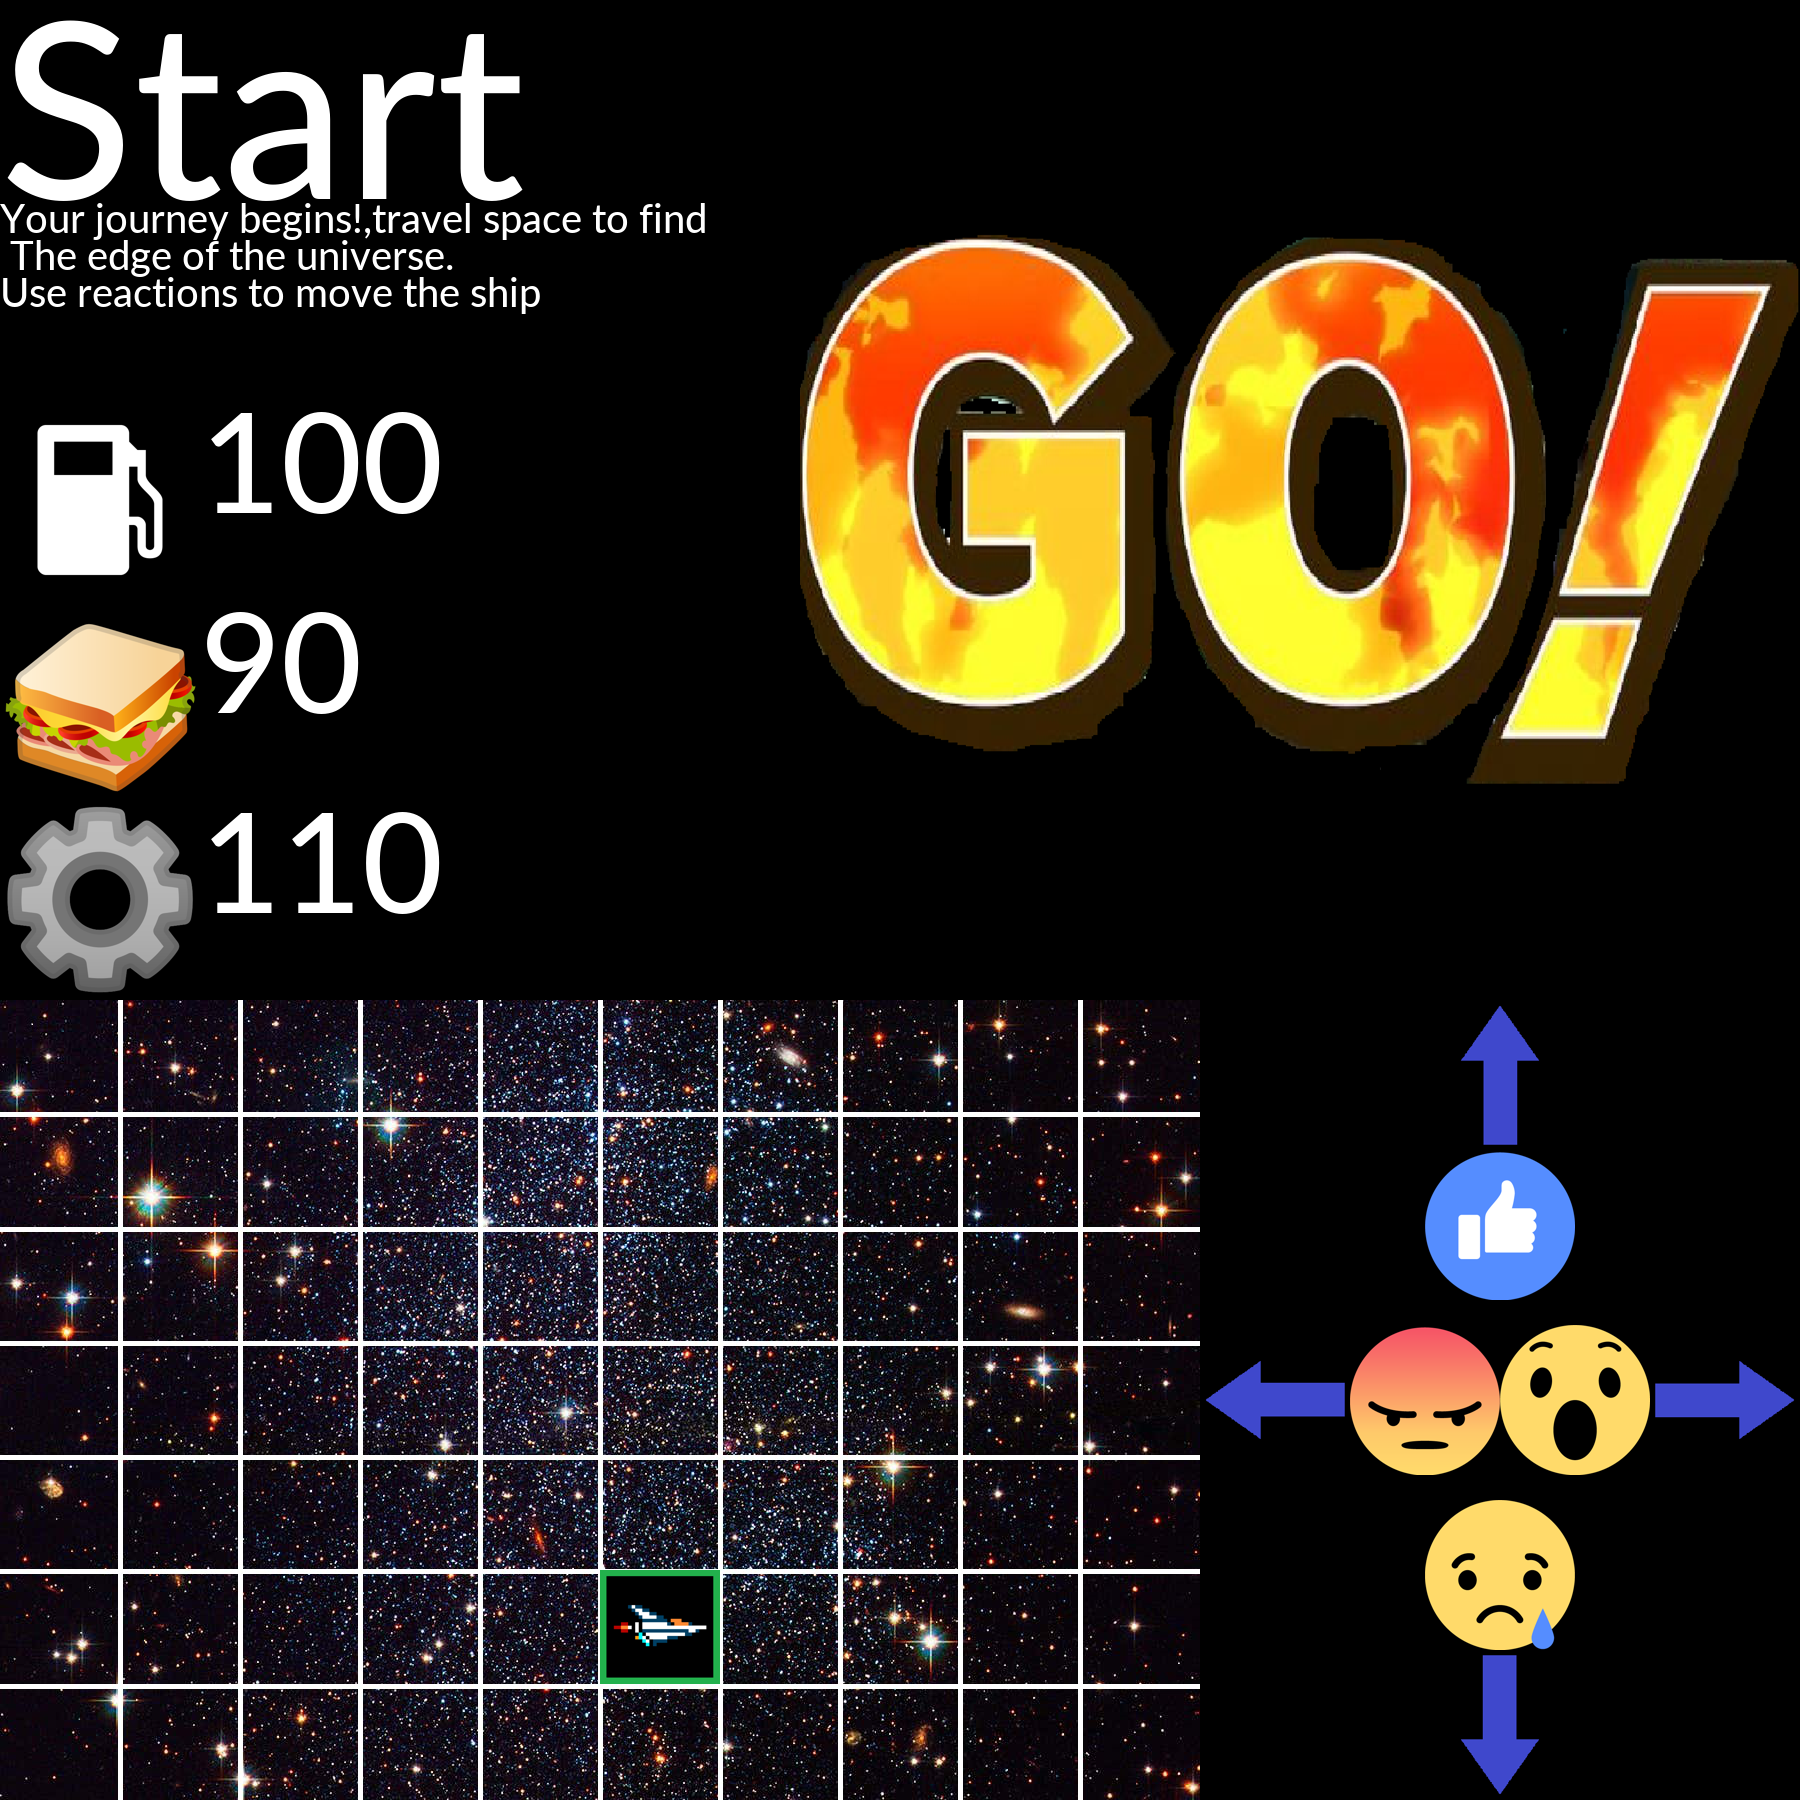
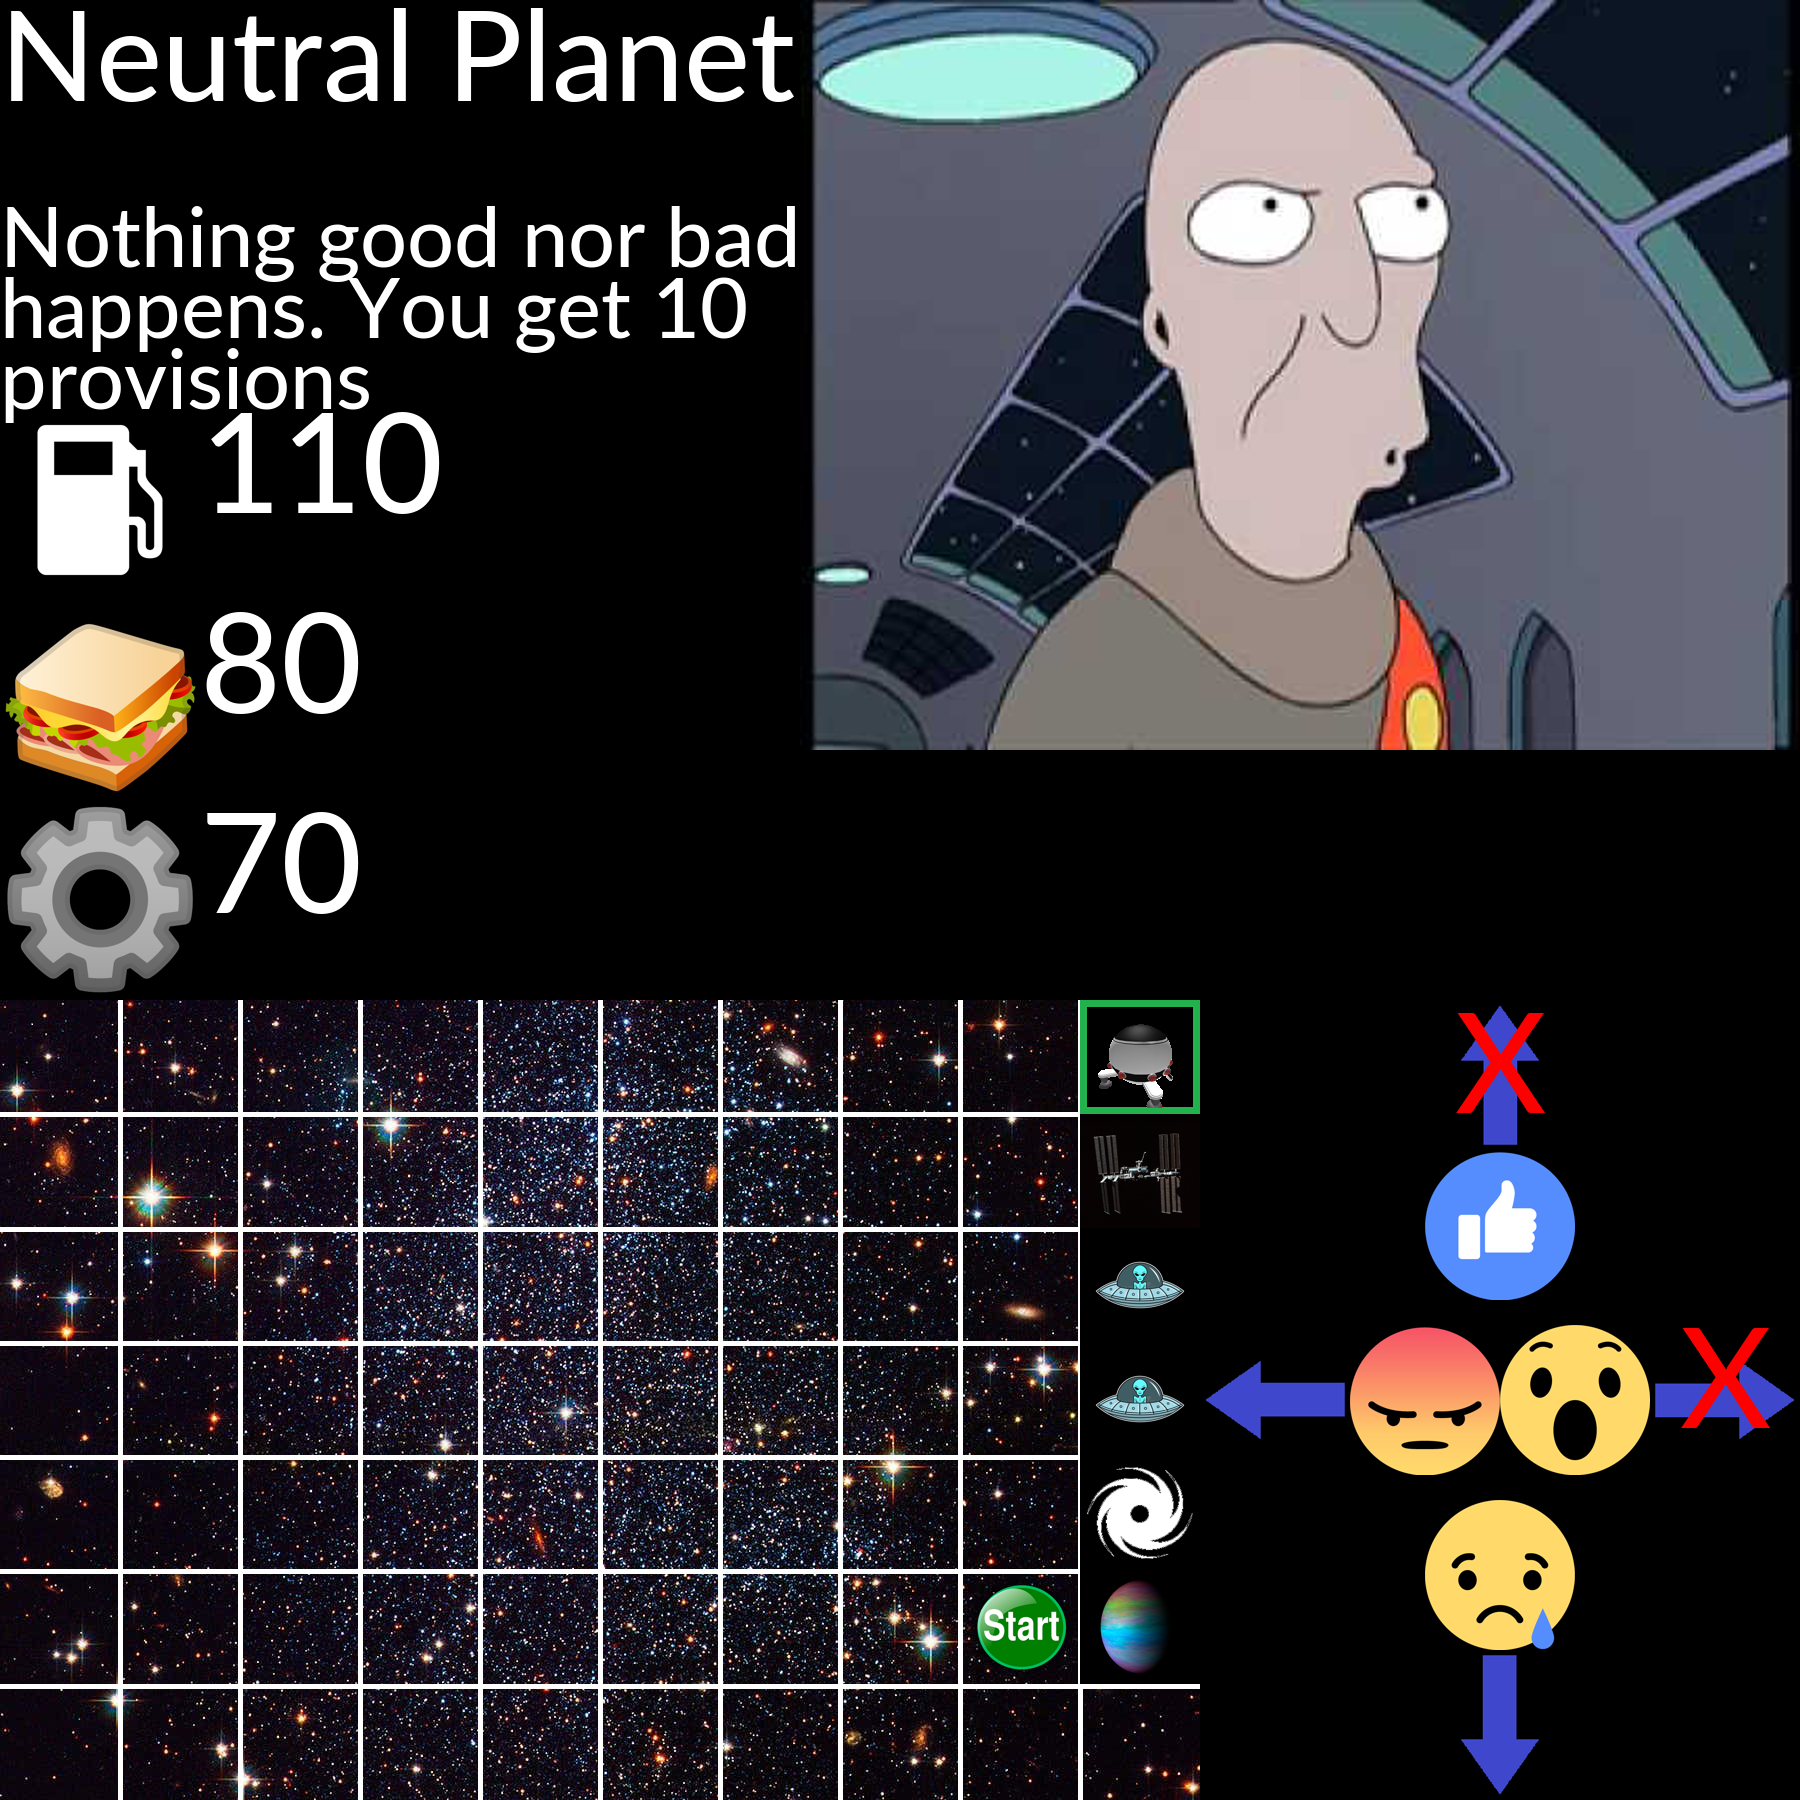
reworked runSpace for voting

diff --git a/Space.py b/Space.py
@@ -2,7 +2,7 @@ import numpy as np
 from PIL import Image
 from PIL import ImageFont
 from PIL import ImageDraw
-import facebook
+#import facebook
 from pathlib import Path
 import os
 import urllib.request
@@ -465,29 +465,33 @@ def make_vote_image():
 	draw.line([(0,500),(1000,500)],"white",10)
 	img.save("vote_image.png")
 	return "vote_image.png", ships
-
-def main(isFirst=False,direction="",vote=True):
+#
+#TURN
+#
+#[0:vote ship,1:first,2:normal turn]
+def main(turn="0",direction=""):
 
 	if direction:
 		gr = 0
 		p_id = 0
 
-	if isFirst:
-		if isFirst!=2 and vote:
-			gr, p_id, ship_list = vote_ship(direction)
-			np.save('data',[gr,p_id,ship_list])
-			return 2
+	if turn=="0":
+		gr, p_id, ship_list = vote_ship(direction)
+		np.save('data',[gr,p_id,ship_list])
+		return "1"
+
+	if turn=="1":
 		#generar el tablero
 		board  =Board()
 		initial_message = "Welcome traveler, move your ship across space to reach {} or perish in your quest to find it".format(board.goal)
-		if vote:
+		try:
 			data = np.load('data.npy',allow_pickle=True)
 			gr = data[0]
 			p_id = data[1]
 			ship_list = data[2]
 			ship = choose_ship(gr,p_id,ship_list,direction)
 			spaceship = Spaceship(ship)
-		else:
+		except:
 			spaceship = Spaceship()#get_random_ship())
 		postImage = gen_initial_image(spaceship,board)
 		if direction:
@@ -497,7 +501,7 @@ def main(isFirst=False,direction="",vote=True):
 			gr, p_id = upload(initial_message,getAccessToken(),postImage)
 		was_portal = False
 		np.save('data',[spaceship,gr,p_id,board,was_portal])
-		return True
+		return "2"
 	else:
 		data = np.load("data.npy",allow_pickle=True)
 		spaceship = data[0]
@@ -537,7 +541,7 @@ def main(isFirst=False,direction="",vote=True):
 			else:
 				#FACEBOOK
 				gr, p_id = upload(message,getAccessToken(),"Victory_image.png")
-			return False
+			return "0"
 		if spaceship.is_dead():
 			message += '\nYou died before reaching your destination, better luck on the next voyage.'
 			game_over_path = update_image(spaceship,event)
@@ -548,7 +552,7 @@ def main(isFirst=False,direction="",vote=True):
 				#FACEBOOK
 				gr, p_id = upload(message,getAccessToken(),"Death_image.png")
 			np.save('data',[spaceship,board,event.get_type()=="Portal"])
-			return False
+			return "0"
 		if not event.get_type()=="Portal":
 			message+="\n Use the reactions to move the ship."
 		img_path = update_image(spaceship,event)
@@ -566,7 +570,7 @@ def main(isFirst=False,direction="",vote=True):
 			upload_comment(gr,p_id,space_comment,"Resources/Space_Core.png")
 			upload_comment(previous_gr,previous_id,"The ship has moved on, check the latest post")
 		np.save('data',[spaceship,gr,p_id,board,event.get_type()=="Portal"])
-		return True
+		return "2"
 
 def testUrls():
 	arrayProperties = []

diff --git a/runSpace.py b/runSpace.py
@@ -6,13 +6,24 @@ from importlib import reload
 while True:
 	seguir = True
 	while seguir:
-		if seguir==2:
-			vote = 1
+		if not(os.path.exists("sigo.txt")):
+			print("turno 0")
+			reload(Space)#In case there were changes
+			seguir = Space.main("0")
+			f = open("sigo.txt","w+")
+			f.write(seguir)
 		else:
-			vote = 0
-		reload(Space)#In case there were changes
-		seguir = Space.main(not(os.path.exists("sigo"))+vote)
-		open("sigo","w+")
-		time.sleep(60*60)
+			f = open("sigo.txt","w+")
+			turno = f.read()
+			print(turno)
+			if turno == "1":
+				print("turno 1")
+				reload(Space)#In case there were changes
+				seguir = Space.main(seguir)
+				f.write(seguir)
+			else:
+				reload(Space)#In case there were changes
+				seguir = Space.main(2)
+		time.sleep(10)
 
 	os.remove("sigo")
